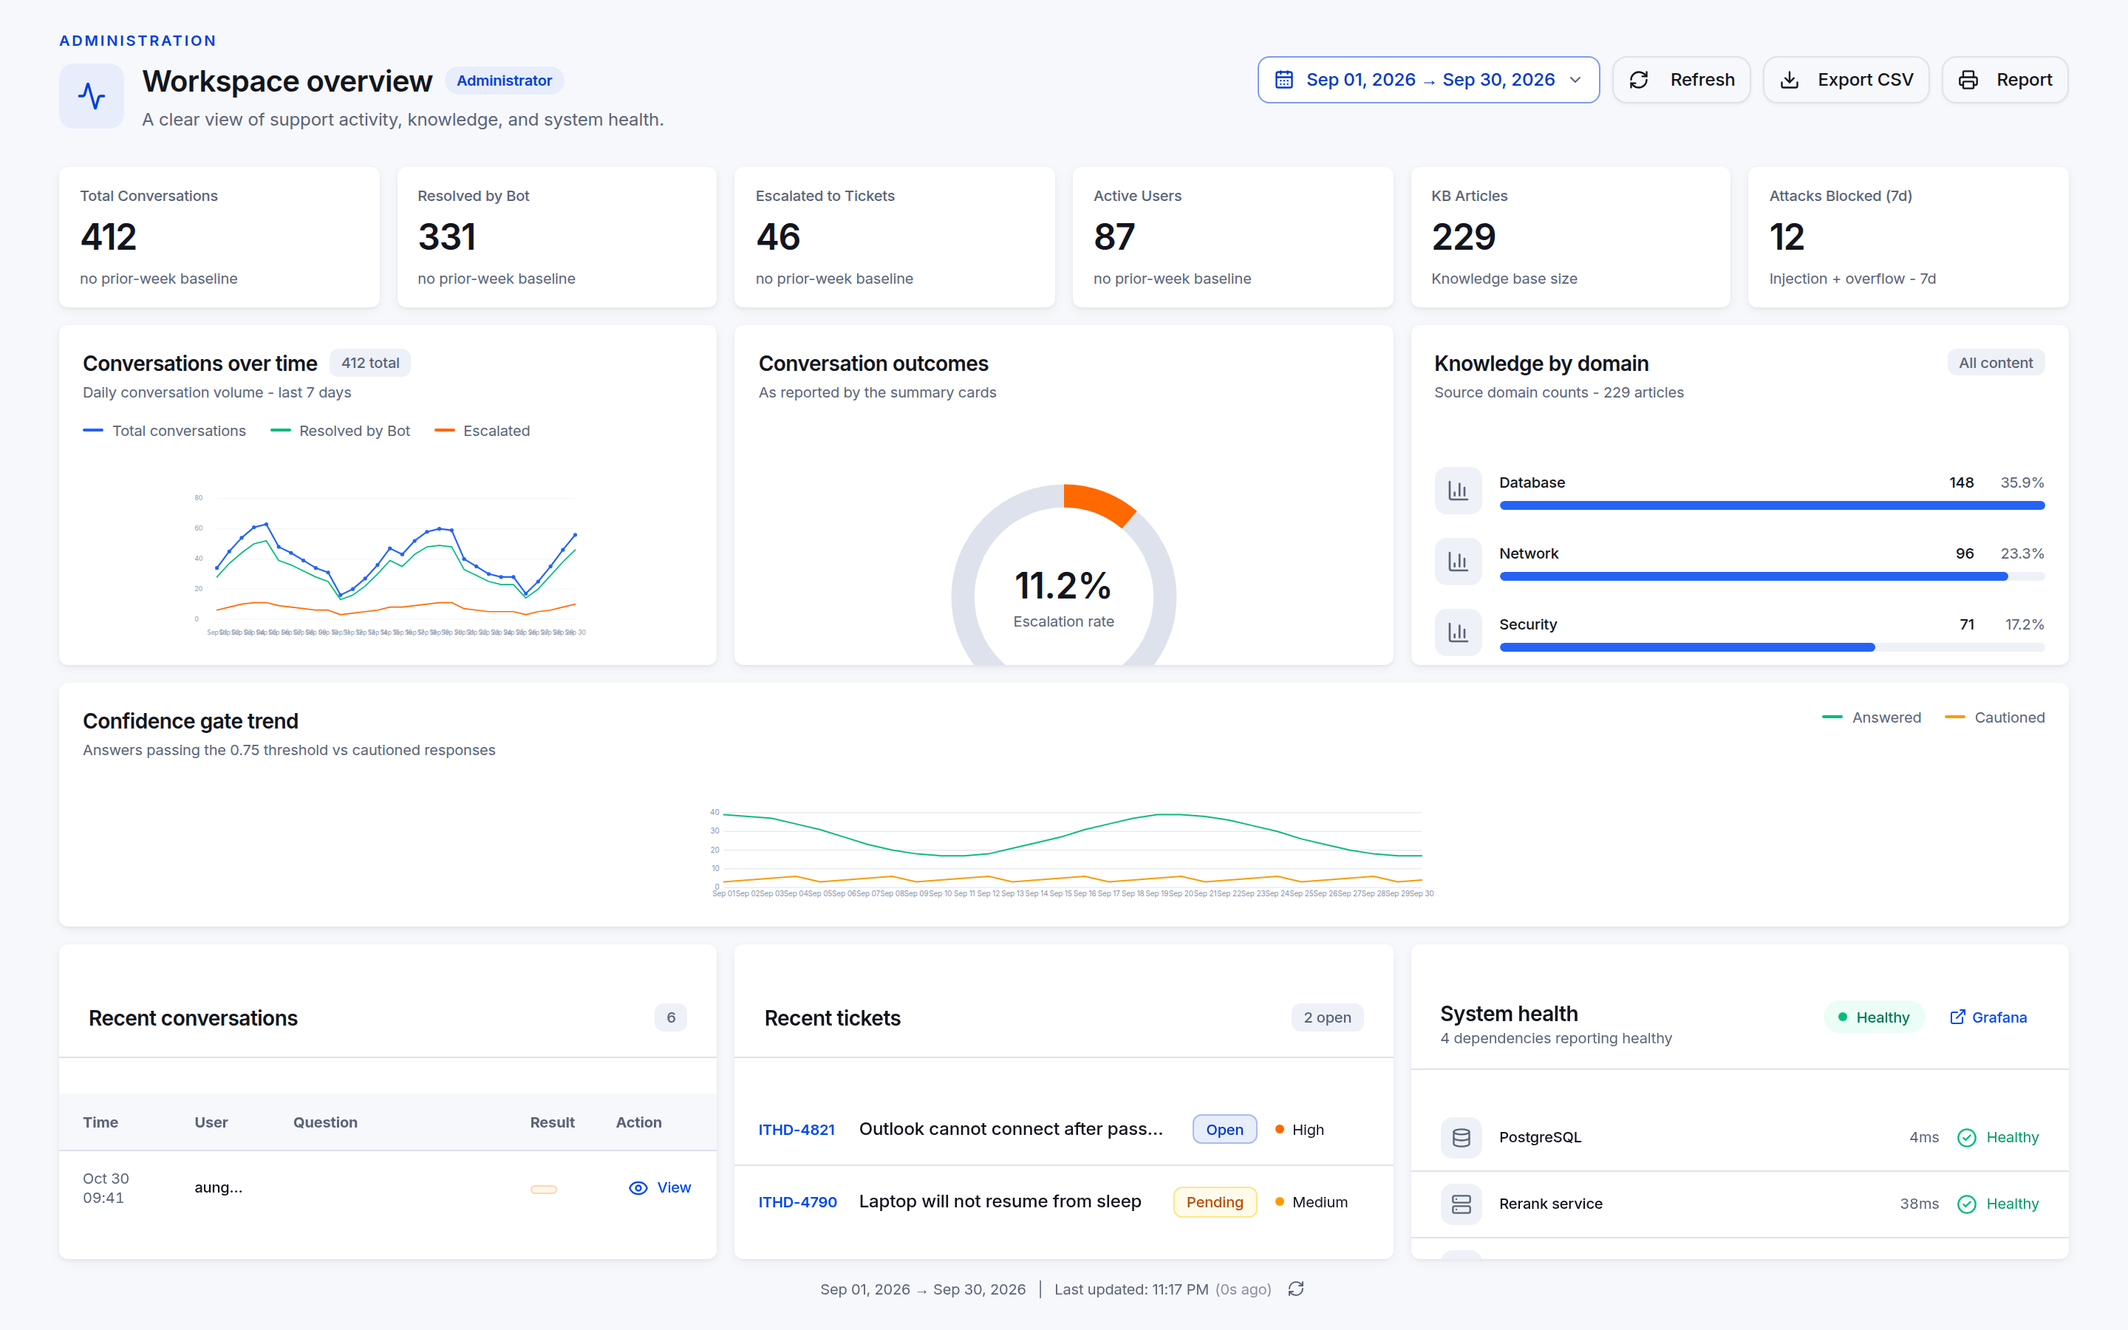
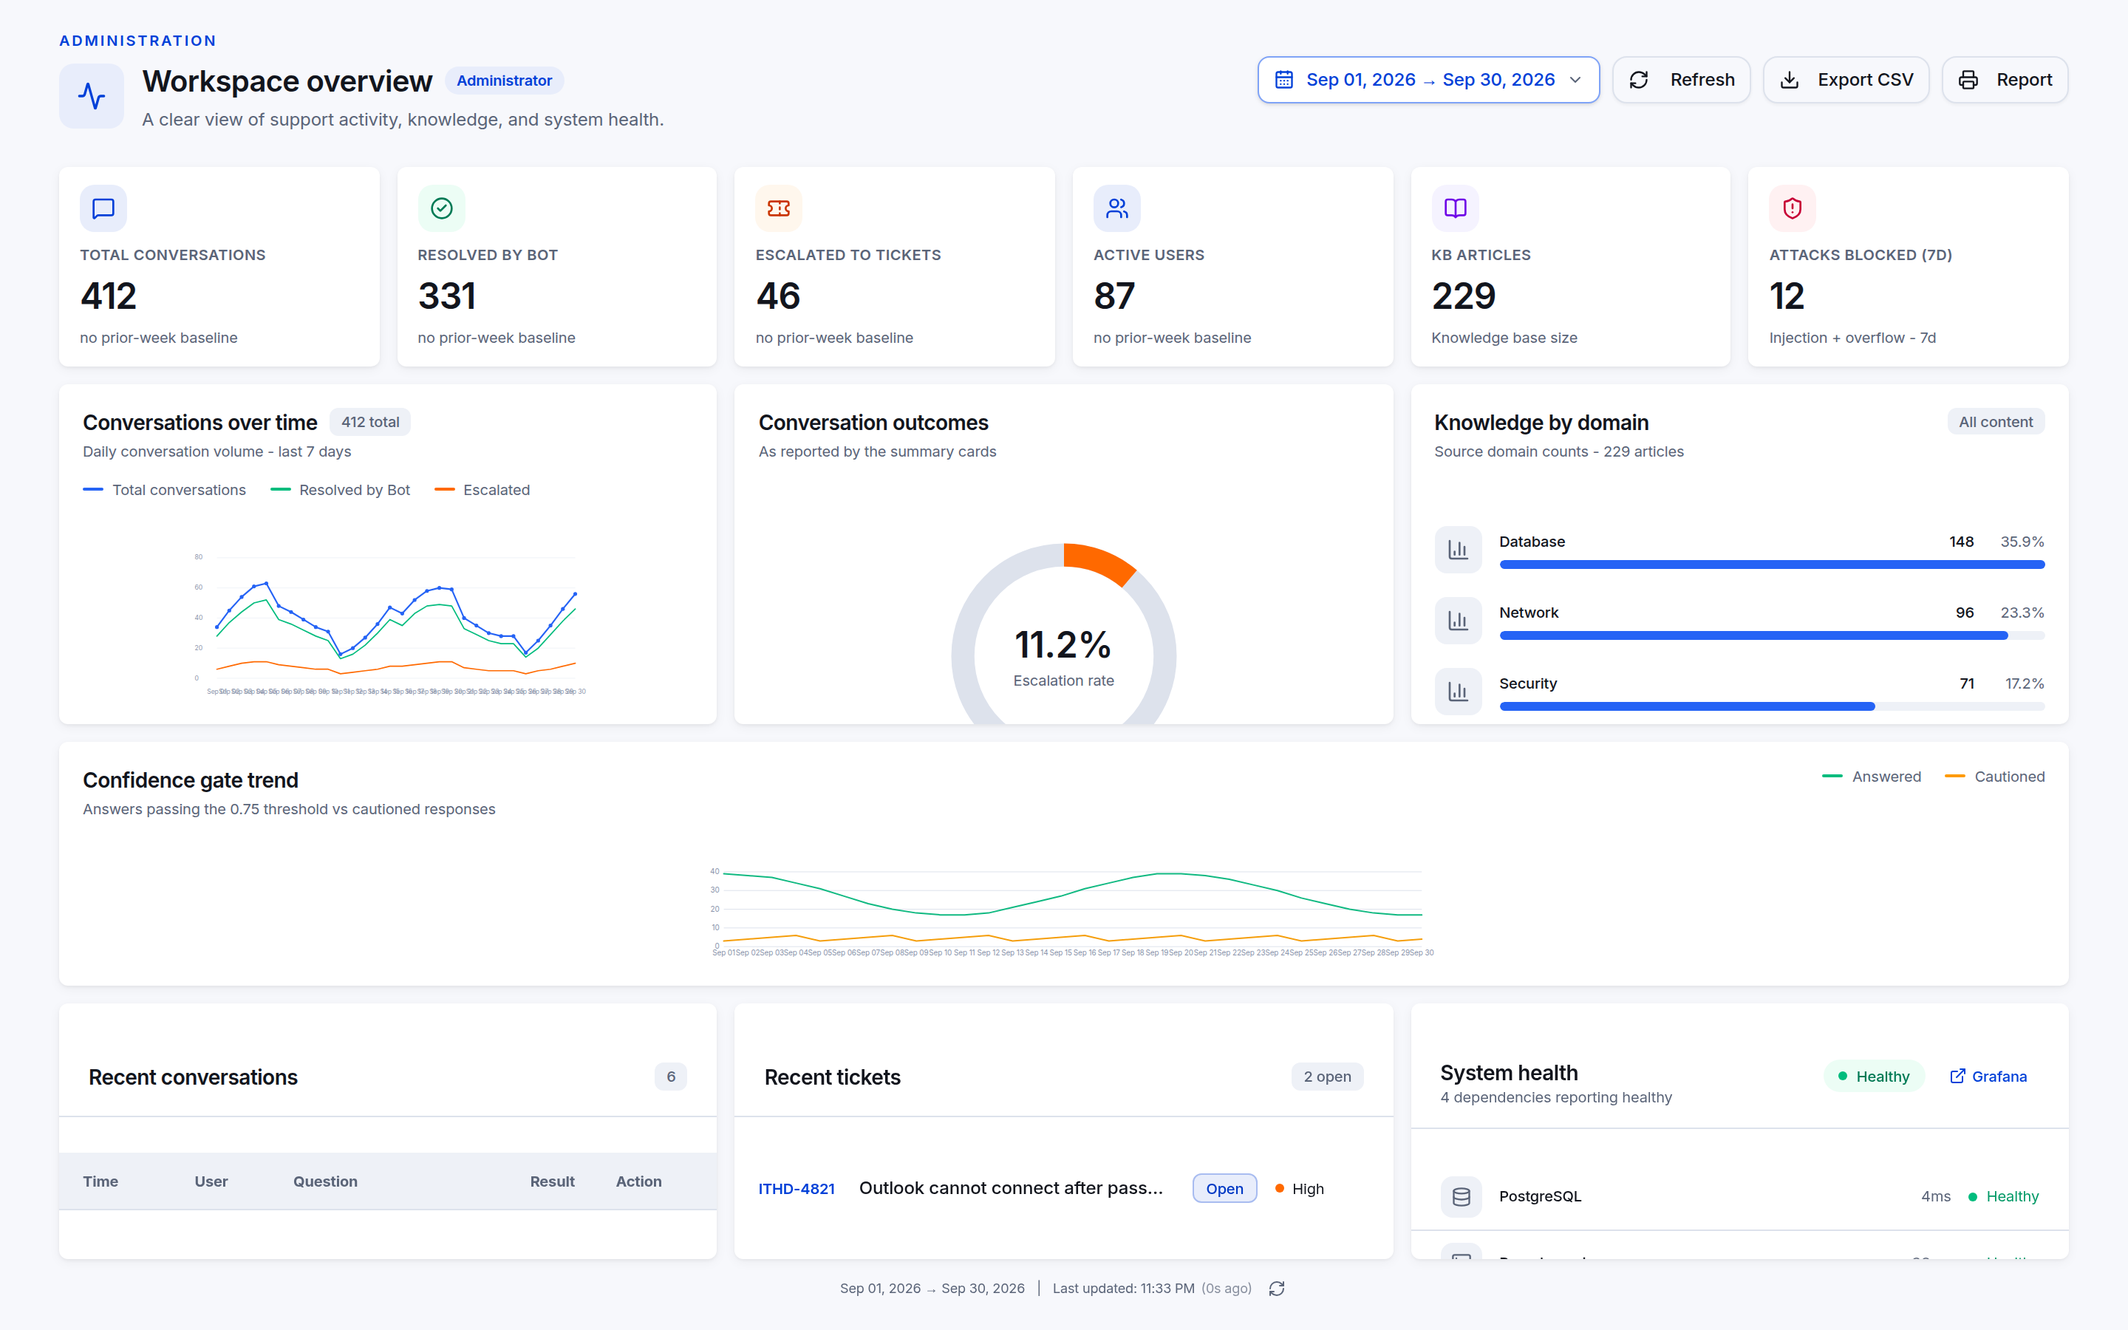
feat(overview): restyle Overview to match chat reference visual language

diff --git a/desktop/src/features/dashboard/pages/DashboardPage.tsx b/desktop/src/features/dashboard/pages/DashboardPage.tsx
@@ -277,8 +277,8 @@ export default function Dashboard({ role }: Props) {
                   onClick={() => setRangeOpen((v) => !v)}
                   title="Reporting window"
                   className={[
-                    "flex h-8 items-center gap-2 rounded-lg border bg-white px-2.5 text-2xs font-medium transition hover:bg-slate-50 dark:bg-slate-900 dark:hover:bg-slate-800",
-                    win.kind === "custom" ? "border-blue-300 text-blue-700 dark:border-blue-800 dark:text-blue-300" : "",
+                    "flex h-8 items-center gap-2 rounded-lg border border-[var(--border)] bg-card px-2.5 text-2xs font-medium shadow-sm transition hover:bg-muted",
+                    win.kind === "custom" ? "border-[var(--primary)]/50 text-[var(--accent-foreground)]" : "",
                   ].join(" ")}
                 >
                   <CalendarDays className="size-3.5" />
@@ -286,7 +286,7 @@ export default function Dashboard({ role }: Props) {
                   <ChevronDown className={`size-3 text-muted-foreground transition ${rangeOpen ? "rotate-180" : ""}`} />
                 </button>
                 {rangeOpen && (
-                  <div className="absolute right-0 top-11 z-20 w-64 rounded-xl border bg-white p-1.5 shadow-lg dark:bg-slate-900">
+                  <div className="absolute right-0 top-11 z-20 w-64 rounded-2xl border border-[var(--border)] bg-[var(--popover)] p-1.5 shadow-lg">
                     {([7, 30, 90] as const).map((r) => (
                       <button
                         key={r}
@@ -298,8 +298,8 @@ export default function Dashboard({ role }: Props) {
                           setRangeOpen(false);
                         }}
                         className={[
-                          "block w-full rounded-lg px-3 py-2 text-left text-xs hover:bg-slate-50 dark:hover:bg-slate-800",
-                          win.kind === "preset" && win.days === r ? "font-semibold text-blue-600" : "text-slate-700 dark:text-slate-200",
+                          "block w-full rounded-lg px-3 py-2 text-left text-xs hover:bg-muted",
+                          win.kind === "preset" && win.days === r ? "font-semibold text-[var(--accent-foreground)]" : "text-foreground",
                         ].join(" ")}
                       >
                         Last {r} days
@@ -311,7 +311,7 @@ export default function Dashboard({ role }: Props) {
                       <p
                         className={[
                           "px-3 pb-1 pt-2 text-2xs font-semibold uppercase tracking-wide",
-                          win.kind === "custom" ? "text-blue-600" : "text-muted-foreground",
+                          win.kind === "custom" ? "text-[var(--accent-foreground)]" : "text-muted-foreground",
                         ].join(" ")}
                       >
                         Custom range
@@ -325,7 +325,7 @@ export default function Dashboard({ role }: Props) {
                             value={customFrom}
                             max={todayIso}
                             onChange={(e) => setCustomFrom(e.target.value)}
-                            className="mt-0.5 h-7 w-full rounded-md border bg-white px-2 text-xs dark:bg-slate-950"
+                            className="mt-0.5 h-7 w-full rounded-md border border-[var(--border)] bg-card px-2 text-xs"
                           />
                         </label>
                         <label className="block">
@@ -335,12 +335,12 @@ export default function Dashboard({ role }: Props) {
                             value={customTo}
                             max={todayIso}
                             onChange={(e) => setCustomTo(e.target.value)}
-                            className="mt-0.5 h-7 w-full rounded-md border bg-white px-2 text-xs dark:bg-slate-950"
+                            className="mt-0.5 h-7 w-full rounded-md border border-[var(--border)] bg-card px-2 text-xs"
                           />
                         </label>
 
                         {customInvalid && (
-                          <p className="text-2xs leading-tight text-rose-600">
+                          <p className="text-2xs leading-tight text-destructive">
                             {customFrom > todayIso
                               ? "Start date is in the future."
                               : "Start date must be on or before the end date."}
@@ -354,7 +354,7 @@ export default function Dashboard({ role }: Props) {
                             setWin({ kind: "custom", start: customFrom, end: customTo });
                             setRangeOpen(false);
                           }}
-                          className="h-7 w-full rounded-md bg-blue-600 text-xs font-medium text-white transition hover:bg-blue-700 disabled:cursor-not-allowed disabled:opacity-40"
+                          className="h-7 w-full rounded-md bg-primary text-xs font-medium text-primary-foreground transition hover:bg-primary/90 disabled:cursor-not-allowed disabled:opacity-40"
                         >
                           Apply range
                         </button>
@@ -497,7 +497,7 @@ export default function Dashboard({ role }: Props) {
 
               {/* Conversations */}
 
-              <Card className="flex min-h-0 flex-col overflow-hidden rounded-xl border-[var(--border)] p-4">
+              <Card className="flex min-h-0 flex-col overflow-hidden rounded-2xl border border-[var(--border)] p-4 shadow-sm">
 
                 <div className="flex items-start justify-between gap-3">
 
@@ -546,7 +546,7 @@ export default function Dashboard({ role }: Props) {
 
               {/* Escalation */}
 
-              <Card className="flex min-h-0 flex-col overflow-hidden rounded-xl border-[var(--border)] p-4">
+              <Card className="flex min-h-0 flex-col overflow-hidden rounded-2xl border border-[var(--border)] p-4 shadow-sm">
 
                 <div>
                   <h2 className="text-sm font-semibold">
@@ -603,7 +603,7 @@ export default function Dashboard({ role }: Props) {
 
               {/* Domains */}
 
-              <Card className="flex min-h-0 flex-col overflow-hidden rounded-xl border-[var(--border)] p-4">
+              <Card className="flex min-h-0 flex-col overflow-hidden rounded-2xl border border-[var(--border)] p-4 shadow-sm">
 
                 <div className="flex items-start justify-between gap-3">
                   <div className="min-w-0">
@@ -645,7 +645,7 @@ export default function Dashboard({ role }: Props) {
                 CONFIDENCE GATE TREND (v1.1.6 — real meta.decision data)
             ================================================= */}
 
-            <Card className="flex h-[165px] min-h-0 shrink-0 flex-col overflow-hidden rounded-xl p-4">
+            <Card className="flex h-[165px] min-h-0 shrink-0 flex-col overflow-hidden rounded-2xl border border-[var(--border)] p-4 shadow-sm">
               <div className="flex items-start justify-between">
                 <div>
                   <h2 className="text-sm font-semibold">Confidence gate trend</h2>
@@ -679,7 +679,7 @@ export default function Dashboard({ role }: Props) {
 
               {/* Recent conversations */}
 
-              <Card className="flex flex-col overflow-hidden rounded-xl border-[var(--border)]">
+              <Card className="flex flex-col overflow-hidden rounded-2xl border border-[var(--border)] shadow-sm">
 
                 <SectionHeader
                   title="Recent conversations"
@@ -731,7 +731,7 @@ export default function Dashboard({ role }: Props) {
                               detail: { user: conversation.user, question: conversation.question },
                             }));
                           }}
-                          className="inline-flex items-center gap-1.5 rounded-md px-2 py-1 text-2xs font-medium text-blue-600 hover:bg-blue-50 dark:text-blue-400 dark:hover:bg-blue-950/30"
+                          className="inline-flex items-center gap-1.5 rounded-md px-2 py-1 text-2xs font-medium text-[var(--accent-foreground)] transition hover:bg-accent"
                         >
                           <Eye className="size-3.5" />
                           View
@@ -758,7 +758,7 @@ export default function Dashboard({ role }: Props) {
 
                     </colgroup>
 
-                    <thead className="sticky top-0 z-10 bg-slate-50 dark:bg-slate-900">
+                    <thead className="sticky top-0 z-10 bg-muted">
 
                       <tr className="text-left text-2xs text-muted-foreground">
 
@@ -800,7 +800,7 @@ export default function Dashboard({ role }: Props) {
                         (conversation) => (
                           <tr
                             key={`${conversation.time}-${conversation.user}`}
-                            className="border-t hover:bg-slate-50 dark:hover:bg-slate-900/50"
+                            className="border-t hover:bg-muted/50"
                           >
 
                             {/* #8 — date and time on separate lines; the single-line
@@ -843,7 +843,7 @@ export default function Dashboard({ role }: Props) {
                                     detail: { user: conversation.user, question: conversation.question },
                                   }));
                                 }}
-                                className="flex items-center gap-1.5 rounded-md px-2 py-1 text-2xs font-medium text-blue-600 hover:bg-blue-50 dark:text-blue-400 dark:hover:bg-blue-950/30"
+                                className="flex items-center gap-1.5 rounded-md px-2 py-1 text-2xs font-medium text-[var(--accent-foreground)] transition hover:bg-accent"
                               >
                                 <Eye className="size-3.5" />
                                 View
@@ -864,7 +864,7 @@ export default function Dashboard({ role }: Props) {
 
               {/* Recent tickets */}
 
-              <Card className="flex flex-col overflow-hidden rounded-xl border-[var(--border)]">
+              <Card className="flex flex-col overflow-hidden rounded-2xl border border-[var(--border)] shadow-sm">
 
                 <SectionHeader
                   title="Recent tickets"
@@ -886,10 +886,10 @@ export default function Dashboard({ role }: Props) {
                   {(liveTickets ?? []).map((ticket) => (
                     <div
                       key={ticket.id}
-                      className="flex items-center gap-3 px-4 py-3.5 transition hover:bg-slate-50 dark:hover:bg-slate-900/50"
+                      className="flex items-center gap-3 px-4 py-3.5 transition hover:bg-muted/50"
                     >
 
-                      <div className="w-14 shrink-0 text-2xs font-semibold text-blue-600">
+                      <div className="w-14 shrink-0 text-2xs font-semibold text-[var(--accent-foreground)]">
                         {ticket.id}
                       </div>
 
@@ -916,7 +916,7 @@ export default function Dashboard({ role }: Props) {
 
               {/* System health */}
 
-              <Card className="flex flex-col overflow-hidden rounded-xl border-[var(--border)]">
+              <Card className="flex flex-col overflow-hidden rounded-2xl border border-[var(--border)] shadow-sm">
 
                 {/* #3 — three items packed into one flex row squeezed the title and
                     wrapped the badge onto two lines. Title + status line stack on the
@@ -961,7 +961,7 @@ export default function Dashboard({ role }: Props) {
                       target="_blank"
                       rel="noreferrer"
                       title="Open full observability in Grafana"
-                      className="inline-flex items-center gap-1 rounded-md px-2 py-1 text-2xs font-medium text-blue-600 hover:bg-blue-50 dark:text-blue-400 dark:hover:bg-blue-950/30"
+                      className="inline-flex items-center gap-1 rounded-md px-2 py-1 text-2xs font-medium text-[var(--accent-foreground)] transition hover:bg-accent"
                     >
                       <ExternalLink className="size-3" />
                       Grafana
@@ -983,7 +983,7 @@ export default function Dashboard({ role }: Props) {
                   {/* #11 — guardrail activity is a SECURITY metric, not a dependency,
                       so it gets its own labelled block instead of sitting in the
                       service list pretending to be "Healthy". */}
-                  <div className="mt-auto flex items-center gap-3 bg-slate-50/60 px-5 py-2.5 dark:bg-slate-900/40">
+                  <div className="mt-auto flex items-center gap-3 bg-muted/60 px-5 py-2.5">
                     <div className="grid size-7 shrink-0 place-items-center rounded-lg bg-amber-50 text-amber-600 dark:bg-amber-950/40 dark:text-amber-400">
                       <ShieldAlert className="size-3.5" />
                     </div>
@@ -1007,7 +1007,7 @@ export default function Dashboard({ role }: Props) {
                 FOOTER
             ================================================= */}
 
-            <div className="flex shrink-0 flex-col items-center justify-center gap-2 text-2xs text-muted-foreground sm:flex-row">
+            <div className="flex shrink-0 flex-col items-center justify-center gap-2 text-3xs text-muted-foreground sm:flex-row">
 
               <span
                 title={
@@ -1041,7 +1041,7 @@ export default function Dashboard({ role }: Props) {
                 onClick={refreshDashboard}
                 title="Refresh now"
                 aria-label="Refresh dashboard"
-                className="rounded p-0.5 transition hover:text-blue-600"
+                className="rounded p-0.5 transition hover:text-[var(--accent-foreground)]"
               >
                 <RefreshCw className={["size-3", loading ? "animate-spin" : ""].join(" ")} />
               </button>

diff --git a/desktop/src/features/dashboard/components/DashboardRows.tsx b/desktop/src/features/dashboard/components/DashboardRows.tsx
@@ -7,22 +7,30 @@
 import {
   ArrowDownRight,
   ArrowUpRight,
-  CheckCircle2,
-  XCircle,
 } from "lucide-react";
 import { Card } from "@/components/ui/card";
 import type { Domain, HealthItem } from "@/features/dashboard/lib/dashboardTypes";
 import type { ReactNode } from "react";
 
 /**
- * One figure per KPI card, read top to bottom: muted label, big number, caption.
+ * One figure per KPI card: icon tile in a soft accent square, muted uppercase label,
+ * big number, caption — the reference mockup's KPI panel treatment (rounded-2xl card,
+ * 1px border, subtle shadow).
  *
- * The workspace mockup draws no icon tile and no sparkline on these cards, so neither is
- * rendered — the figure is the whole card. `icon` and `tone` stay in the props (callers
- * still pass them) so the component's public shape is unchanged, but nothing decorative
- * is drawn from them any more.
+ * `tone` colors the icon tile; `icon` sits inside it. Test-pinned label strings pass
+ * through untouched (uppercase is a CSS transform, textContent is unchanged).
  */
+const TONE_TILE: Record<string, string> = {
+  emerald: "bg-emerald-50 text-emerald-700 dark:bg-emerald-950/40 dark:text-emerald-300",
+  orange: "bg-orange-50 text-orange-700 dark:bg-orange-950/40 dark:text-orange-300",
+  sky: "bg-[var(--accent-soft)] text-[var(--accent-foreground)]",
+  violet: "bg-violet-50 text-violet-700 dark:bg-violet-950/40 dark:text-violet-300",
+  rose: "bg-rose-50 text-rose-700 dark:bg-rose-950/40 dark:text-rose-300",
+};
+
 export function KpiCard({
+  icon,
+  tone,
   value,
   title,
   change,
@@ -43,9 +51,18 @@ export function KpiCard({
   className?: string;
 }) {
   return (
-    <Card className={["gap-0 rounded-xl border-[var(--border)] px-3.5 py-3 shadow-xs", className ?? ""].join(" ")}>
+    <Card className={["gap-0 rounded-2xl border border-[var(--border)] px-3.5 py-3 shadow-sm", className ?? ""].join(" ")}>
 
-      <div className="truncate text-2xs font-medium text-muted-foreground">
+      {icon && (
+        <span
+          aria-hidden
+          className={["mb-2 grid size-8 place-items-center rounded-xl", TONE_TILE[tone ?? "sky"]].join(" ")}
+        >
+          {icon}
+        </span>
+      )}
+
+      <div className="truncate text-2xs font-semibold uppercase tracking-wide text-muted-foreground">
         {title}
       </div>
 
@@ -169,7 +186,7 @@ export function DomainRow({
 
         </div>
 
-        <div className="h-1.5 overflow-hidden rounded-full bg-slate-100 dark:bg-slate-800">
+        <div className="h-1.5 overflow-hidden rounded-full bg-muted">
 
           <div
             className="h-full rounded-full bg-blue-500"
@@ -226,11 +243,13 @@ export function HealthRow({ item }: { item: HealthItem }) {
       )}
 
       <div className="flex shrink-0 items-center gap-1.5">
-        {healthy ? (
-          <CheckCircle2 className="size-3.5 text-emerald-500" />
-        ) : (
-          <XCircle className="size-3.5 text-red-500" />
-        )}
+        <span
+          aria-hidden
+          className={[
+            "size-1.5 rounded-full",
+            healthy ? "bg-emerald-500" : "bg-rose-500",
+          ].join(" ")}
+        />
         <span className={healthy ? "text-2xs text-emerald-600" : "text-2xs text-red-600"}>
           {item.status}
         </span>
